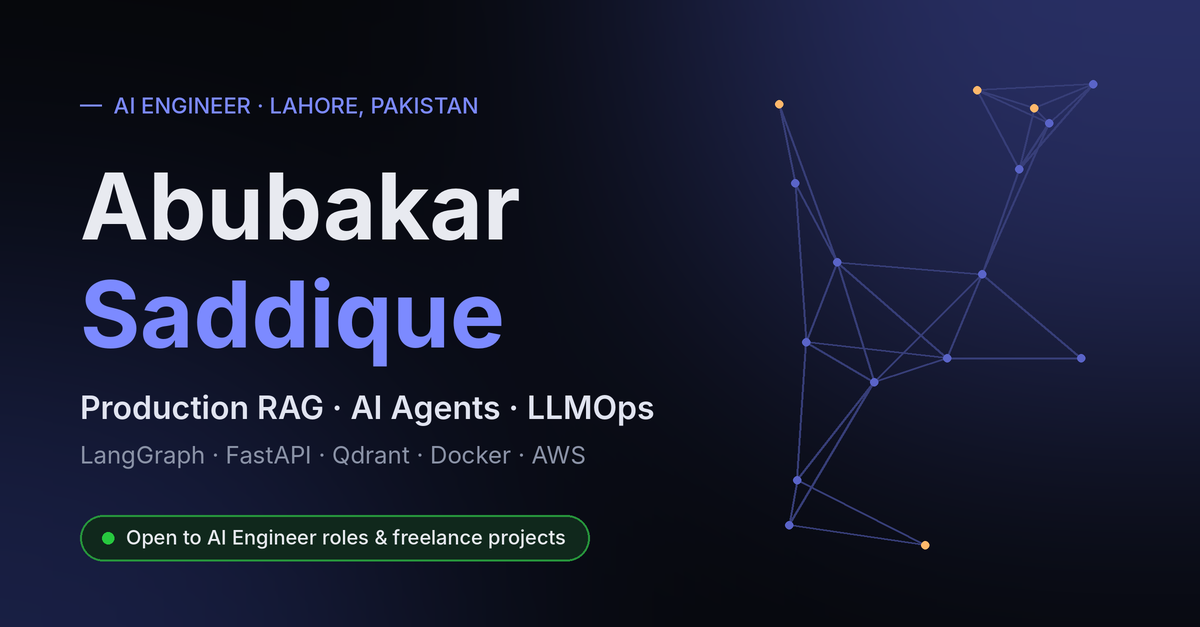
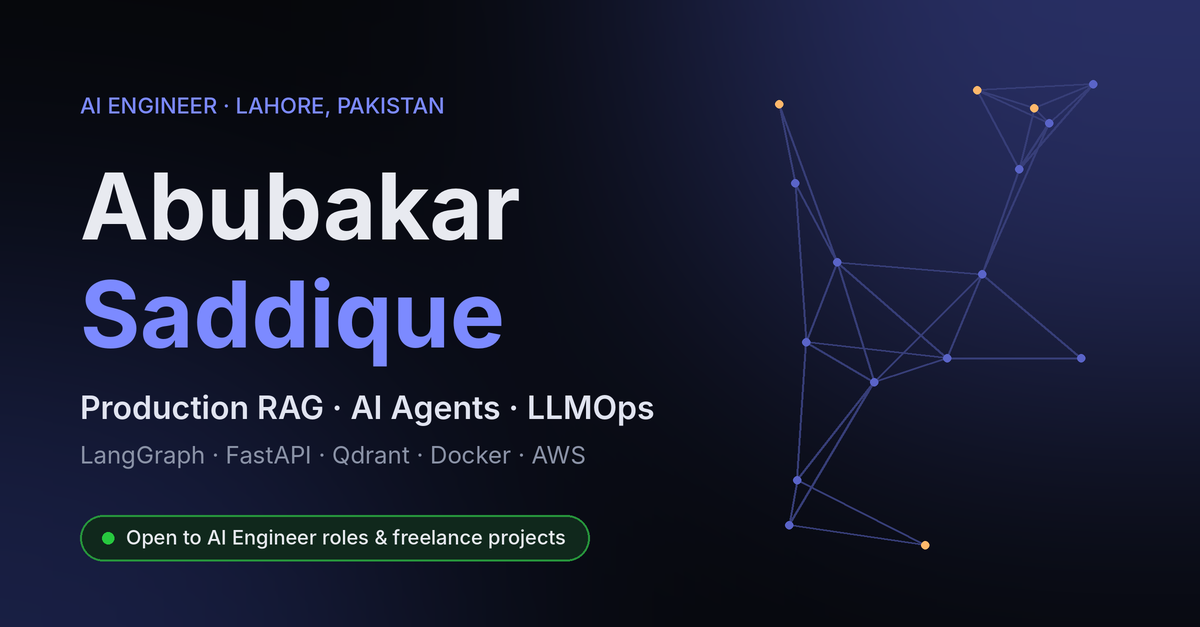
Update portfolio content, remove unused images

Changed region(s): [[0.0617, 0.1515, 0.4008, 0.1818]]

diff --git a/index.html b/index.html
@@ -3,12 +3,12 @@
 <head>
 <meta charset="UTF-8">
 <meta name="viewport" content="width=device-width, initial-scale=1, shrink-to-fit=no">
-<title>Abubakar Saddique — AI Engineer | RAG · AI Agents · LLMOps</title>
-<meta name="description" content="Abubakar Saddique — AI Engineer in Lahore building production RAG systems, AI agents and WhatsApp AI bots. Open to AI Engineer roles and freelance projects.">
+<title>Abubakar Saddique | AI Engineer | RAG, AI Agents, LLMOps</title>
+<meta name="description" content="Abubakar Saddique is an AI Engineer in Lahore building production RAG systems, AI agents and WhatsApp AI bots. Open to AI Engineer roles and freelance projects.">
 
 <!-- Link preview (LinkedIn, WhatsApp, etc.) -->
 <meta property="og:type" content="website">
-<meta property="og:title" content="Abubakar Saddique — AI Engineer">
+<meta property="og:title" content="Abubakar Saddique | AI Engineer">
 <meta property="og:description" content="Production RAG · AI Agents · LLMOps. Open to AI Engineer roles and freelance projects.">
 <meta property="og:url" content="https://abubakarsaddique22.github.io/portfolio_datascience/">
 <meta property="og:image" content="https://abubakarsaddique22.github.io/portfolio_datascience/images/og-cover.png">
@@ -45,10 +45,10 @@
   <div class="hero-glow"></div>
   <div class="wrap hero-inner">
     <div class="status-pill"><span class="pulse"></span>Open to AI Engineer roles &amp; freelance projects</div>
-    <div class="eyebrow">AI Engineer — Lahore, Pakistan</div>
+    <div class="eyebrow">AI Engineer · Lahore, Pakistan</div>
     <h1>Abubakar<br><span class="accent">Saddique</span></h1>
     <div class="role-line"><span id="roleText">Building production RAG systems</span><span class="cursor">|</span></div>
-    <p class="hero-desc">I build LLM applications end to end — retrieval, agents, evaluation, guardrails and cloud deployment — so they work for real users, not just in a notebook.</p>
+    <p class="hero-desc">I build LLM applications end to end, from retrieval and agents to evaluation, guardrails and cloud deployment, and I make sure they work reliably for real users.</p>
     <div class="btn-row">
       <a href="#projects" class="btn btn-primary">View Projects →</a>
       <a href="cv/Abubakar_Saddique_AI_Resume.pdf" target="_blank" rel="noopener" class="btn btn-ghost">Download Resume</a>
@@ -94,7 +94,7 @@
             <p><span class="prompt">$</span> cat now.txt</p>
             <p class="out">Building a WhatsApp AI support bot for a live Shopify store</p>
             <p><span class="prompt">$</span> cat education.txt</p>
-            <p class="out">BS Computer Science — University of South Asia</p>
+            <p class="out">BS Computer Science, University of South Asia</p>
             <p><span class="prompt">$</span> cat status.txt</p>
             <p class="out">Open to AI Engineer roles · Taking freelance projects</p>
             <p><span class="prompt">$</span> _</p>
@@ -165,14 +165,14 @@
     <!-- Featured: Nexora -->
     <article class="p-card p-featured reveal">
       <div class="p-featured-main">
-        <div class="p-num"><span class="badge">Featured</span> Sep–Oct 2026 · Personal project</div>
+        <div class="p-num"><span class="badge">Featured</span> Sep - Oct 2026 · Personal project</div>
         <h3>Nexora Knowledge Assistant</h3>
         <p class="p-sub">Production RAG system on AWS</p>
-        <p>A RAG assistant over company documents that answers with citations — and only from the documents each user's role is allowed to see.</p>
+        <p>A RAG assistant over company documents that answers with citations, using only the documents each user's role is allowed to see.</p>
         <ul class="p-metrics">
           <li>Hybrid retrieval (dense + BM25 + Reciprocal Rank Fusion) with cross-encoder reranking.</li>
           <li>Profiled the pipeline stage by stage, found reranking took 78% of latency, and cut it with no quality loss; role-aware Redis answer cache.</li>
-          <li>Role-based access control inside vector search (JWT, 5 roles), PII masking, prompt-injection and output guardrails — 28 integration tests and a 29-case red-team suite.</li>
+          <li>Role-based access control inside vector search (JWT, 5 roles), PII masking, prompt-injection and output guardrails, checked with 28 integration tests and a 29-case red-team suite.</li>
           <li>GitHub Actions CI (230 tests, 84% coverage) → Docker images to ECR → EC2 via SSM with automatic health-check rollback. Prometheus, Grafana and LangSmith for monitoring.</li>
         </ul>
         <div class="p-tags"><span>LangGraph</span><span>Qdrant</span><span>FastAPI</span><span>Groq</span><span>PostgreSQL</span><span>Redis</span><span>Docker</span><span>AWS</span></div>
@@ -188,7 +188,7 @@
 
     <div class="project-grid" id="projectGrid">
       <article class="p-card reveal" data-tilt>
-        <div class="p-num"><span class="badge badge-live">Client project</span> Oct 2026 – Present</div>
+        <div class="p-num"><span class="badge badge-live">Client project</span> Oct 2026 - Present</div>
         <h3>WhatsApp AI Support Bot for Shopify</h3>
         <p>AI customer-support bot on WhatsApp for a live Shopify store, answering product, price and policy questions in Roman Urdu and English.</p>
         <ul class="p-metrics">
@@ -215,7 +215,7 @@
       </article>
 
       <article class="p-card reveal" data-tilt>
-        <div class="p-num">Mar–Apr 2026</div>
+        <div class="p-num">Mar - Apr 2026</div>
         <h3>Customer Support Assistant</h3>
         <p>RAG chatbot for an eCommerce platform that answers from 500+ product FAQ and policy documents.</p>
         <ul class="p-metrics">
@@ -228,7 +228,7 @@
       </article>
 
       <article class="p-card reveal" data-tilt>
-        <div class="p-num">Sep–Oct 2025</div>
+        <div class="p-num">Sep - Oct 2025</div>
         <h3>YouTube Sentiment Analyzer</h3>
         <p>Chrome extension showing live sentiment for YouTube comments, backed by an MLOps pipeline.</p>
         <ul class="p-metrics">
@@ -273,7 +273,7 @@
     <div class="section-head reveal">
       <div class="eyebrow">Services</div>
       <h2>What I can build for your business</h2>
-      <p>Freelance AI work for stores and companies — built for production: tested, monitored and deployed, not just a demo.</p>
+      <p>Freelance AI work for stores and companies. Everything I deliver is tested, monitored and deployed properly.</p>
     </div>
 
     <div class="service-grid">
@@ -290,7 +290,7 @@
       <div class="s-card reveal">
         <div class="s-icon"><svg width="22" height="22" viewBox="0 0 24 24" fill="none" stroke="currentColor" stroke-width="1.8"><circle cx="12" cy="12" r="3"/><path d="M12 2v3M12 19v3M4.2 4.2l2.1 2.1M17.7 17.7l2.1 2.1M2 12h3M19 12h3M4.2 19.8l2.1-2.1M17.7 6.3l2.1-2.1"/></svg></div>
         <h3>AI agents &amp; automation</h3>
-        <p>Agents that take repetitive work off your team — research, reports, email and support workflows.</p>
+        <p>Agents that take repetitive work off your team, like research, reports, email and support workflows.</p>
       </div>
     </div>
 
@@ -313,7 +313,7 @@
     <div class="timeline reveal">
       <div class="t-item">
         <div class="t-node"></div>
-        <div class="t-date">October 2026 — Present</div>
+        <div class="t-date">Oct 2026 - Present</div>
         <div class="t-role">AI Engineer · Freelance</div>
         <div class="t-org">Tussles Store · Lahore, Pakistan</div>
         <ul>
@@ -324,7 +324,7 @@
       </div>
       <div class="t-item">
         <div class="t-node"></div>
-        <div class="t-date">May 2026 — Present</div>
+        <div class="t-date">May 2026 - Present</div>
         <div class="t-role">Freelance AI Engineer</div>
         <div class="t-org">Self-employed · Upwork &amp; local clients</div>
         <ul>
@@ -335,7 +335,7 @@
       </div>
       <div class="t-item">
         <div class="t-node"></div>
-        <div class="t-date">October 2025 — April 2026</div>
+        <div class="t-date">Oct 2025 - Apr 2026</div>
         <div class="t-role">Data Science &amp; GenAI Intern</div>
         <div class="t-org">Salaar Technologies Pvt. Ltd. · Lahore, Pakistan</div>
         <ul>
@@ -345,7 +345,7 @@
       </div>
       <div class="t-item">
         <div class="t-node"></div>
-        <div class="t-date">June 2025 — July 2025</div>
+        <div class="t-date">Jun 2025 - Jul 2025</div>
         <div class="t-role">Data Science Intern</div>
         <div class="t-org">DevelopersHub Corporation · Remote</div>
         <ul>
@@ -358,12 +358,12 @@
 
     <div class="edu-row">
       <div class="edu-card reveal">
-        <div class="t-date">2021 — 2025</div>
+        <div class="t-date">2021 - 2025</div>
         <h4>BS Computer Science</h4>
         <p>University of South Asia, Lahore</p>
       </div>
       <div class="edu-card reveal">
-        <div class="t-date">2019 — 2021</div>
+        <div class="t-date">2019 - 2021</div>
         <h4>Intermediate in Computer Science (ICS)</h4>
         <p>Aspire College</p>
       </div>
@@ -372,10 +372,10 @@
     <div class="cert-block reveal">
       <h4 class="cert-heading">Certifications</h4>
       <div class="tag-row">
-        <span class="tag">Data Science Mentorship Program — CampusX</span>
-        <span class="tag">AI Agents with CrewAI — CampusX</span>
-        <span class="tag">AI Agents using Agno — CampusX</span>
-        <span class="tag">Generative AI using Open Source LLMs — CampusX</span>
+        <span class="tag">Data Science Mentorship Program (CampusX)</span>
+        <span class="tag">AI Agents with CrewAI (CampusX)</span>
+        <span class="tag">AI Agents using Agno (CampusX)</span>
+        <span class="tag">Generative AI using Open Source LLMs (CampusX)</span>
       </div>
     </div>
   </div>
@@ -387,7 +387,7 @@
     <div class="section-head reveal">
       <div class="eyebrow">Contact</div>
       <h2>Let's build something together</h2>
-      <p>Open to AI Engineer roles (Lahore or remote) and freelance projects. I usually reply within a day.</p>
+      <p>Open to AI Engineer roles (Lahore or remote) and freelance projects.</p>
     </div>
 
     <div class="contact-grid">

diff --git a/style.css b/style.css
@@ -248,7 +248,7 @@
   .t-org{ font-size:14px; color:var(--text-muted); margin-bottom:14px; }
   .t-item ul{ display:flex; flex-direction:column; gap:8px; }
   .t-item li{ font-size:14.5px; color:var(--text-muted); padding-left:18px; position:relative; }
-  .t-item li::before{ content:"—"; position:absolute; left:0; color:var(--text-faint); }
+  .t-item li::before{ content:""; position:absolute; left:2px; top:10px; width:5px; height:5px; border-radius:50%; background:var(--accent); opacity:.7; }
 
   .edu-row{ display:grid; grid-template-columns:1fr 1fr; gap:24px; margin-top:56px; }
   .edu-card{ background:var(--surface); border:1px solid var(--border); border-radius:12px; padding:24px; }
@@ -261,7 +261,7 @@
 
   .p-metrics{ margin-bottom:18px; display:flex; flex-direction:column; gap:8px; }
   .p-metrics li{ font-size:13px; color:var(--text-muted); padding-left:16px; position:relative; line-height:1.5; }
-  .p-metrics li::before{ content:"—"; position:absolute; left:0; color:var(--text-faint); }
+  .p-metrics li::before{ content:""; position:absolute; left:2px; top:8px; width:5px; height:5px; border-radius:50%; background:var(--accent); opacity:.7; }
 
   .mini-projects{ margin-top:40px; }
   .mini-grid{ display:grid; grid-template-columns:repeat(2,1fr); gap:12px; }

diff --git a/readme.md b/readme.md
@@ -1,10 +1,10 @@
-# Abubakar Saddique — Portfolio
+# Abubakar Saddique | Portfolio
 
 Personal portfolio of Abubakar Saddique, AI Engineer (Production RAG · AI Agents · LLMOps), Lahore, Pakistan.
 
 **Live:** https://abubakarsaddique22.github.io/portfolio_datascience/
 
-Plain HTML, CSS and JavaScript — no build step. Deploys straight to GitHub Pages from the `main` branch.
+Plain HTML, CSS and JavaScript with no build step. Deploys straight to GitHub Pages from the `main` branch.
 
 ## Structure
 
